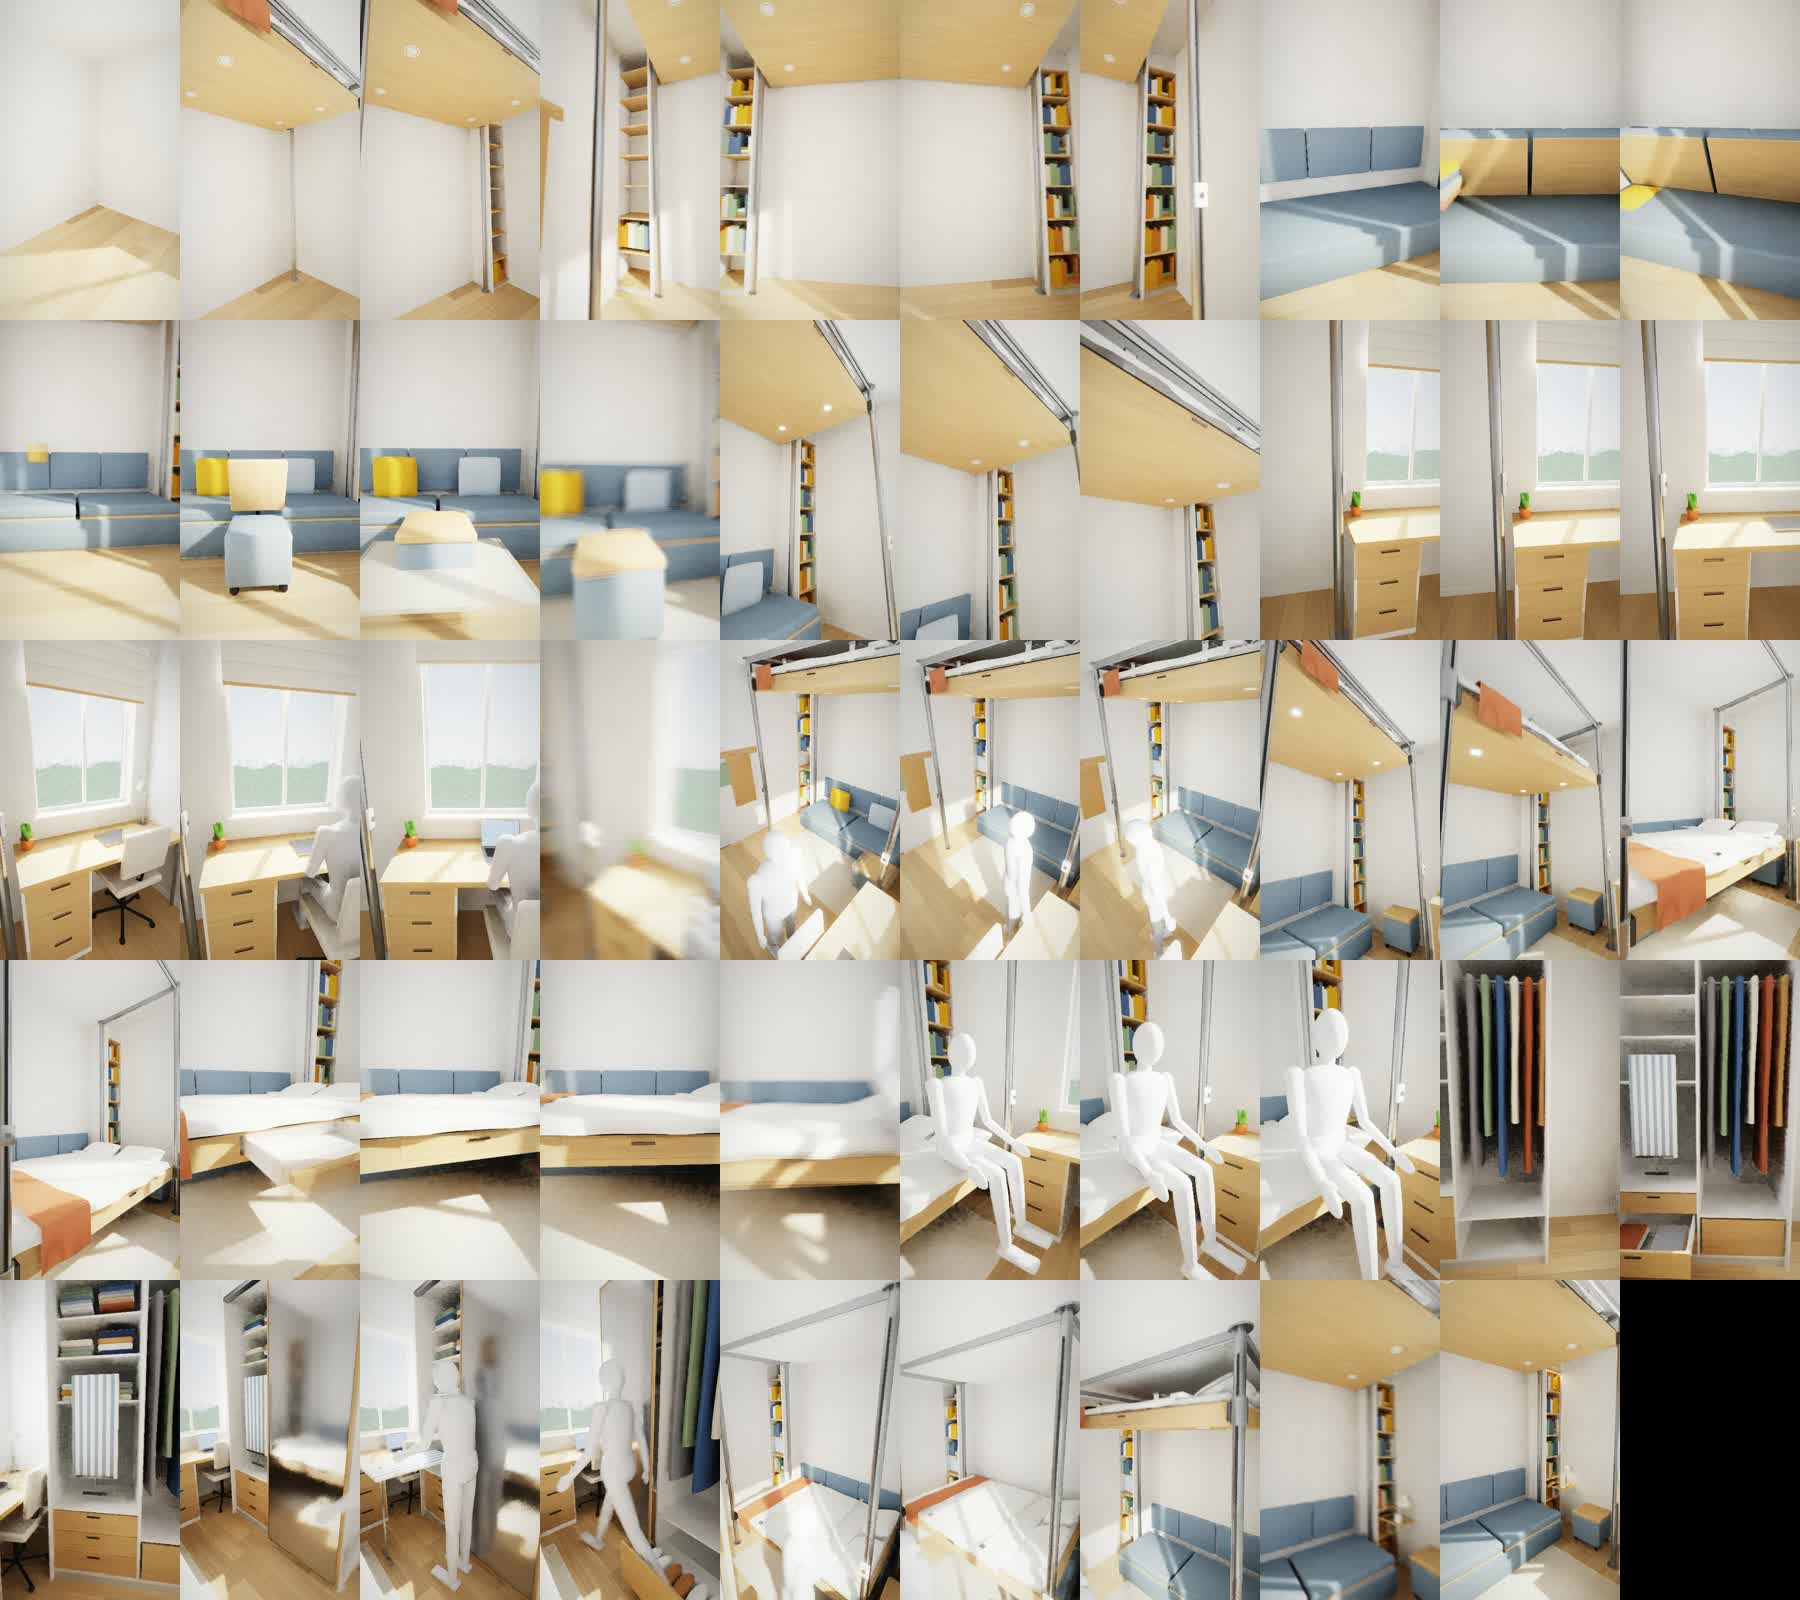
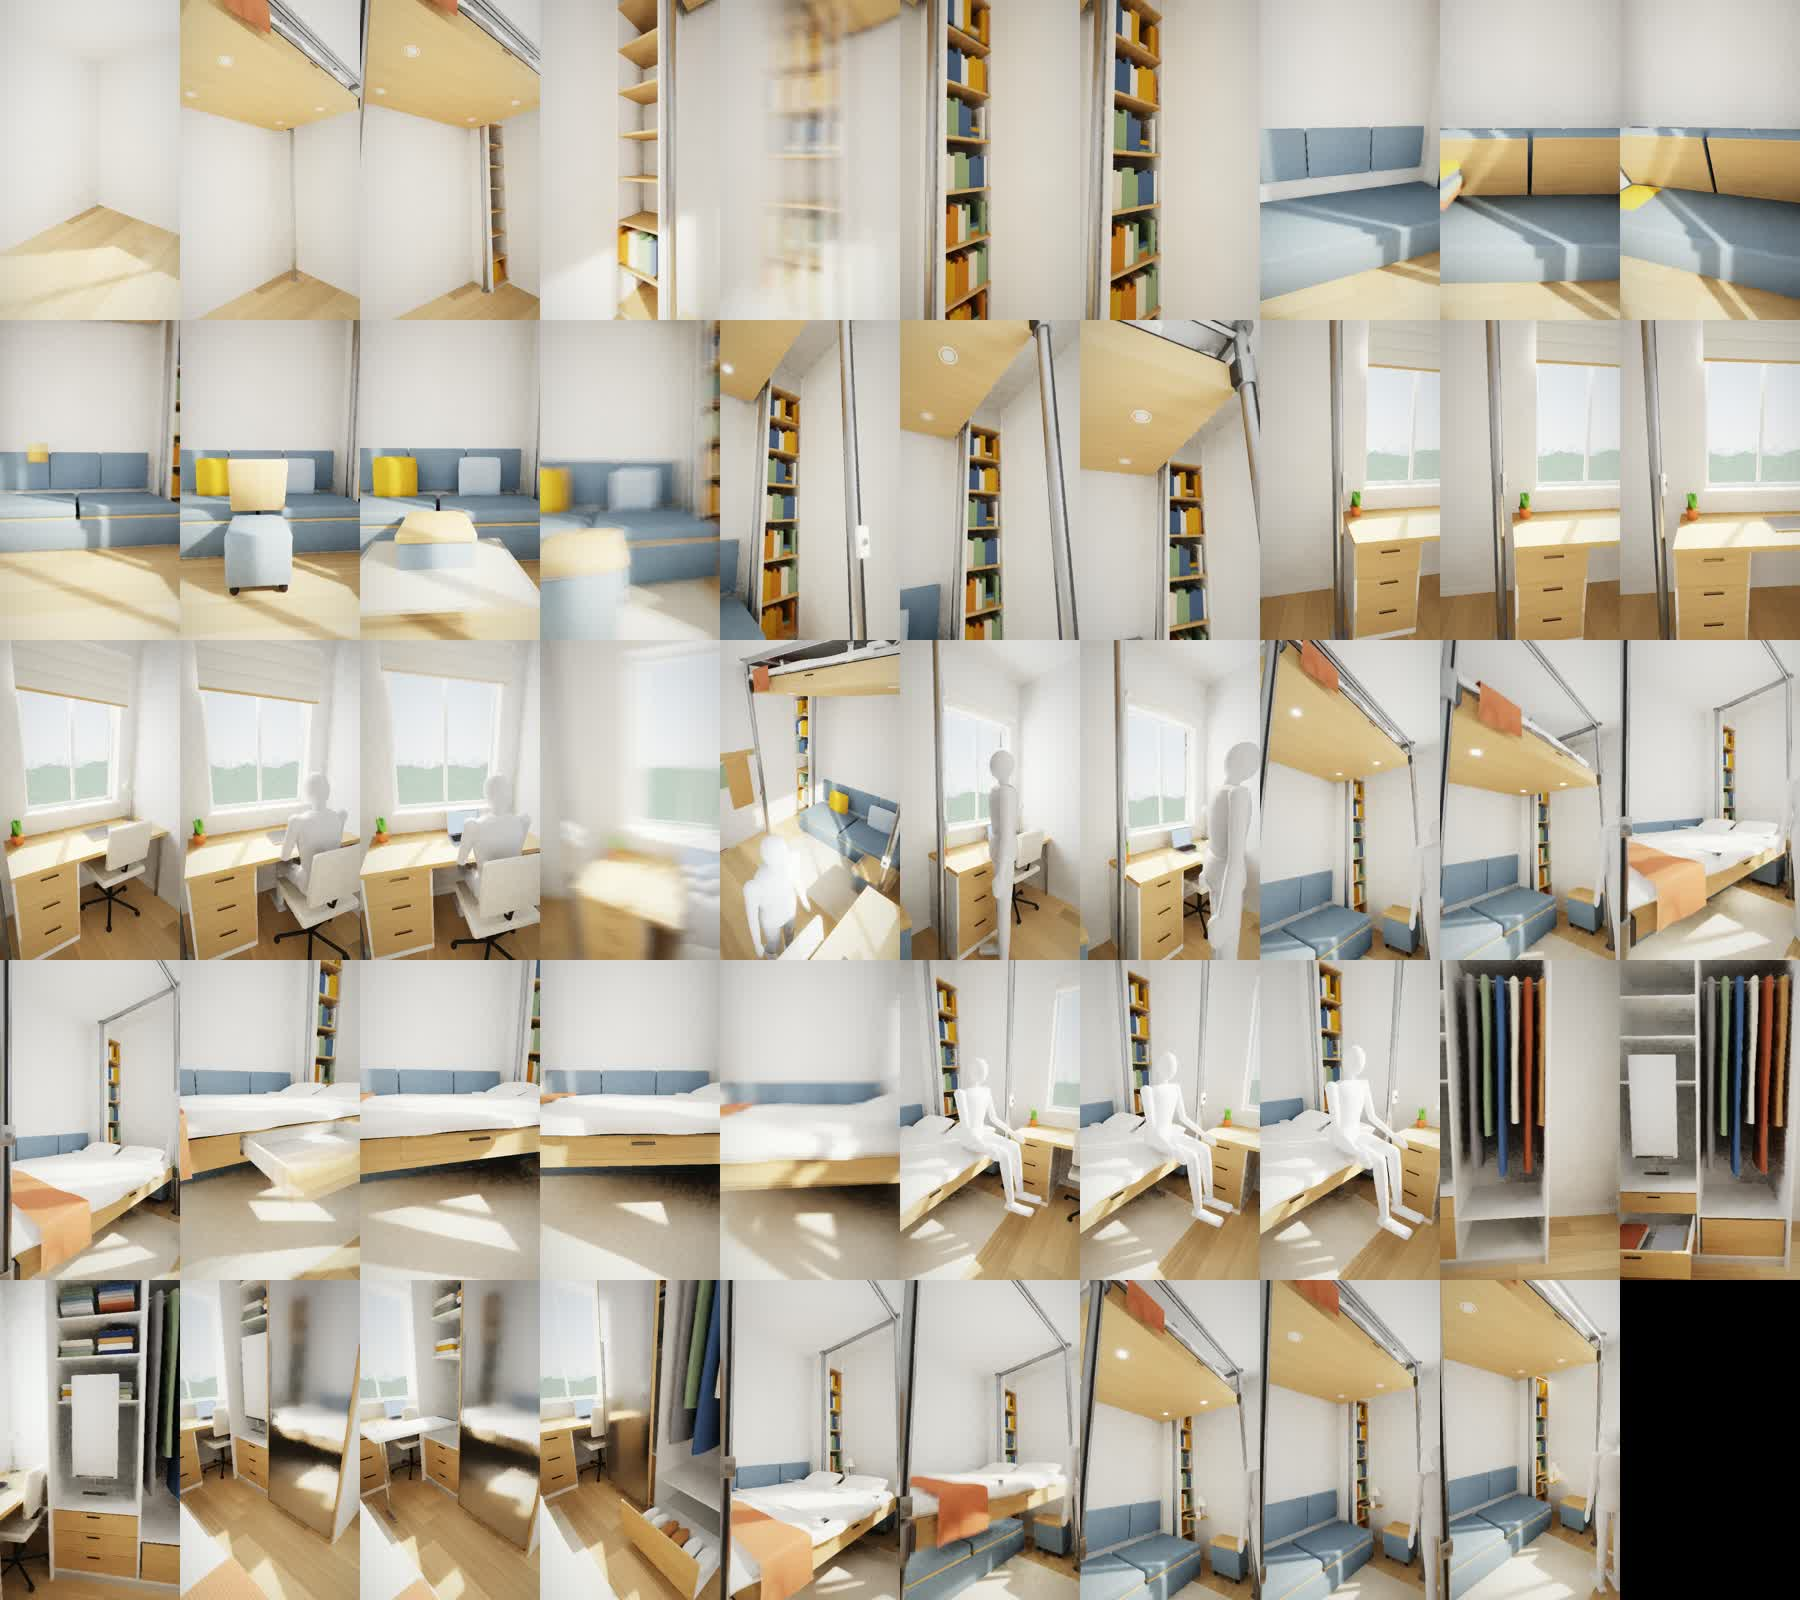
Bed on the ceiling: long cut review round 2 fixes
Claude-Session: https://claude.ai/code/session_01Sw6cwv4Wvw6fhD8h7UNjUt

diff --git a/rooms/bed_on_the_ceiling/project.py b/rooms/bed_on_the_ceiling/project.py
@@ -69,7 +69,7 @@ def materials():
     mat('blackm', col=srgb(30, 30, 32), rough=0.4, f0=0.04, glossy=True)
     mat('winframe', col=srgb(238, 238, 236), rough=0.4)
     mat('sill', col=srgb(240, 238, 233), rough=0.25, f0=0.04, glossy=True)
-    mat('mirror', col=srgb(236, 237, 239), rough=0.02, metal=1)
+    mat('mirror', col=srgb(236, 237, 239), rough=0.22, metal=1)
     mat('linen', tex=3, col=srgb(244, 242, 238), rough=0.9, p=(0.04,))
     mat('blind', tex=4, col=srgb(236, 230, 218), emis=(0.05, 0.05, 0.048), p=(0.12,))
     mat('mattress', tex=5, col=srgb(246, 245, 241), p=(0, 0.02))
@@ -675,7 +675,7 @@ L_ST = [
     (0.0, 3.0, S1),
     (3.3, 4.45, (P(1.50, 1.05, 1.25, -128.0, 0.0), P(1.40, 0.90, 1.38, -134.0, 4.0))),      # L2a south tower fills
     (4.6, 6.6, (P(1.45, 2.00, 1.25, -50.0, 0.0), P(1.35, 2.10, 1.38, -44.0, 4.0))),          # L2b north tower fills        # L2 low slide along the bay
-    (6.9, 10.2, (P(1.70, 0.80, 1.05, -62.0, -14.0), P(1.70, 2.20, 1.05, -118.0, -14.0))),   # L3 orbit the sofa
+    (6.9, 10.2, (P(1.75, 0.80, 1.75, -66.0, -42.0), P(1.75, 2.20, 1.75, -114.0, -42.0))),   # L3 orbit the sofa
     (10.5, 13.4, (P(2.35, 1.45, 0.82, -84.0, -6.0), P(1.95, 1.55, 0.78, -88.0, -6.0))),    # L4 push in at seat height
     (13.7, 16.6, (P(2.05, 1.90, 0.95, -48.0, 8.0), P(1.98, 2.00, 1.95, -70.0, 16.0))),    # L5 crane up beside the bed
     (16.9, 20.1, (P(1.30, 1.50, 1.30, 12.0, -10.0), P(1.85, 1.55, 1.30, 2.0, -10.0))),     # L6 slide toward the window
@@ -683,9 +683,9 @@ L_ST = [
     (23.7, 25.2, (P(2.92, 2.92, 2.40, -136.0, -30.0), P(2.80, 2.80, 2.32, -133.0, -26.0))),  # L8a NE corner: chair, ottoman, pillows hop
     (25.35, 26.8, (P(0.90, 1.30, 1.40, 42.0, -4.0), P(1.00, 1.42, 1.38, 40.0, -2.0))),      # L8b front-on to the button press
     (27.1, 31.0, (P(2.30, 0.12, 1.50, -38.0, 12.0), P(2.22, 0.20, 1.15, -44.0, 0.0))),     # L9 the ride
-    (31.3, 34.4, (P(2.20, 0.85, 0.80, -58.0, -12.0), P(2.20, 1.65, 0.80, -100.0, -12.0))), # L10 low slide along the front rail
-    (34.7, 37.5, (P(2.45, 0.70, 1.40, -30.0, -14.0), P(2.40, 1.05, 1.35, -44.0, -16.0))),  # L11 orbit round the head end
-    (37.8, 40.9, (P(1.15, 0.95, 1.30, 100.0, -6.0), P(1.15, 1.90, 1.30, 78.0, -6.0))),     # L12 facing east, slide north
+    (31.3, 34.4, (P(2.45, 0.85, 0.85, -58.0, -12.0), P(2.45, 1.20, 0.90, -85.0, -12.0))), # L10 low slide along the front rail
+    (34.7, 37.5, (P(2.40, 1.10, 1.40, -38.0, -12.0), P(2.05, 1.55, 1.30, -62.0, -14.0))),  # L11 orbit round the head end
+    (37.8, 40.9, (P(0.95, 0.95, 1.35, 100.0, -8.0), P(1.15, 1.90, 1.30, 78.0, -6.0))),     # L12 facing east, slide north
     (41.2, 44.0, (P(1.28, 0.50, 1.30, 46.0, -20.0), P(1.40, 0.72, 1.25, 38.0, -20.0))),    # L13 push in on the north section
     (44.3, 47.2, (P(2.22, 0.20, 1.15, -44.0, 2.0), P(2.30, 0.12, 1.45, -40.0, 14.0))),  # L14 NE corner, tilt up with the bed
     (47.5, 49.5, (P(2.32, 0.12, 1.60, -40.0, 4.0), S1[0])),                                # L15 drifting wide back to frame 1
@@ -1121,8 +1121,8 @@ def timeline_long(tl, kit):
     ev(T_UP1, 'bed_dock', 1.0, 'clunk')
     slide('rail', 1.25, 1.40, (0.6, 0, 0), 1.0, 0.5, 'swish')
     land_posts(tl, 1.40, False)
-    slide('twN', 1.90, 2.12, (0.55, 0, 0), 1.0, 0.8)
-    slide('twS', 1.98, 2.20, (0.55, 0, 0), 1.0, 0.5)
+    slide('twN', 1.62, 1.84, (0.55, 0, 0), 1.0, 0.8)
+    slide('twS', 1.70, 1.92, (0.55, 0, 0), 1.0, 0.5)
     drop('motor', 2.26, 2.40, 0.25, 0.02, 0.45, 'tick')
     fly('bk_twN0', 2.36, 2.50, (0.35, 0, 0.05), 0.04, 0.3, 'riffle')
     fly('bk_twN1', 2.62, 2.76, (0.35, 0, 0.05), 0.04, 0.3, 'riffle')
@@ -1362,18 +1362,24 @@ def timeline_long(tl, kit):
         dict(t=25.45, kind='walk', to=(1.88, 2.24, -49)),
         dict(t=25.72, kind='pose', pose=PRESS),
         dict(t=25.86, kind='pose', pose=PRESS),
-        dict(t=26.15, kind='walk', to=(1.86, 1.95, -45), pose=LOOKUP),
+        dict(t=26.15, kind='walk', to=(1.66, 1.55, -45), pose=LOOKUP),
         dict(t=30.40, kind='pose', pose=LOOKUP),
         dict(t=30.80, kind='pose', pose='stand'),
-        dict(t=32.70, kind='pose', pose='stand'),
-        dict(t=33.40, kind='walk', to=(1.80, 2.08, 92)),
-        dict(t=33.50, kind='sit', at=(1.36, 2.08, 92), seat=BED_SEAT),
+        dict(t=31.40, kind='walk', to=(2.10, 2.35, -45)),
+        dict(t=33.60, kind='pose', pose='stand'),
+        dict(t=34.40, kind='walk', to=(1.80, 1.40, 92)),
+        dict(t=34.50, kind='sit', at=(1.36, 1.40, 92), seat=BED_SEAT),
         dict(t=37.60, kind='hide'),
-        dict(t=43.50, kind='show', at=(2.15, 1.45, 0)),
+        dict(t=41.20, kind='show', at=(1.95, 0.45, 0)),
+        dict(t=42.00, kind='walk', to=(2.05, 1.70, -10)),
+        dict(t=42.20, kind='pose', pose=dict(sh_r=70, elbow_r=30, sh_l=50, elbow_l=40, spine=10, neck=10)),
+        dict(t=42.55, kind='pose', pose=dict(sh_r=40, elbow_r=40, sh_l=30, elbow_l=40, spine=8, neck=16)),
+        dict(t=42.85, kind='pose', pose=dict(sh_r=70, elbow_r=30, sh_l=50, elbow_l=40, spine=10, neck=10)),
+        dict(t=43.10, kind='pose', pose='stand'),
         dict(t=44.15, kind='walk', to=(1.88, 2.24, -49)),
         dict(t=44.30, kind='pose', pose=PRESS),
         dict(t=44.42, kind='pose', pose=PRESS),
-        dict(t=44.70, kind='walk', to=(1.86, 1.95, -45), pose=LOOKUP),
+        dict(t=44.70, kind='walk', to=(1.66, 1.55, -45), pose=LOOKUP),
         dict(t=47.30, kind='pose', pose=LOOKUP),
         dict(t=47.90, kind='pose', pose='stand'),
     ])
